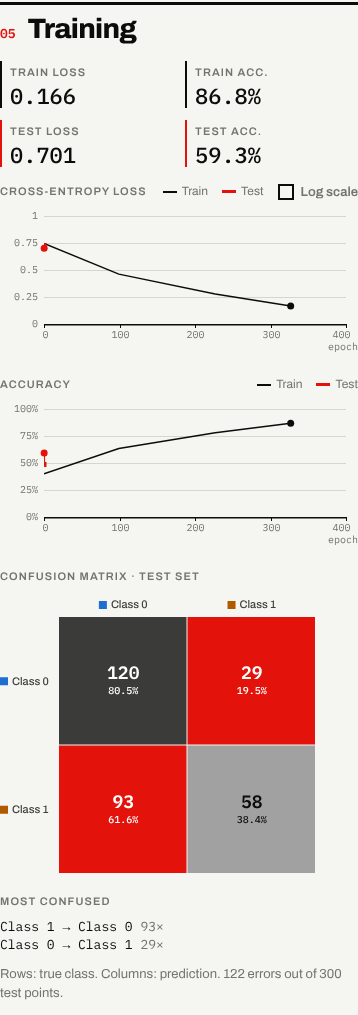
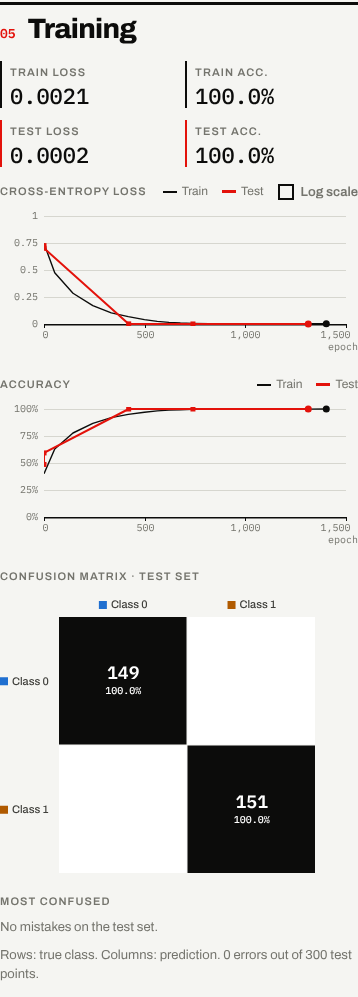
Make weights, training and backprop work for every dataset, add a speed control
04 Weights: a colour network's first-layer kernels show as colour patches
next to their R, G and B kernels; dense layers fed by colour images show
32×32×3 templates; output rows carry class names; point networks label
their inputs x₁, x₁², sin x₁ (upright on a phone); frozen layers are
marked; every number uses a true minus sign.

05 Training: an N×N confusion matrix with short or rotated class names,
full names in tooltips and large cells for 2–4 classes; an epoch axis that
reads well over thousands of epochs; dataset-aware loading text.

06 Backpropagation: colour photos and feature tables as input, class
names in softmax and loss, gradients through conv layers on 3 channels,
frozen layers left alone by the update (and tagged in the step list), and
an explanation wherever a gradient stops at a layer whose units were all
off.

Training bar: Slow / Normal / Max speed, a menu on a phone.

e2e/core.spec.ts covers all of it on CIFAR-10, Fashion-MNIST, MNIST and
circle, with screenshots 17-core-*.png.

Claude-Session: https://claude.ai/code/session_01XbEHJLkrJr1cYYoamFRkmb

diff --git a/src/ui/charts.ts b/src/ui/charts.ts
@@ -1,5 +1,5 @@
 import { loading } from '../actions';
-import { fixed, niceTicks, share, sig } from '../analysis/stats';
+import { fixed, niceTicks, share } from '../analysis/stats';
 import { noun, type DatasetInfo } from '../data/datasets';
 import { store } from '../store';
 import { $, clear, h, int, pct } from './dom';
@@ -191,8 +191,11 @@ function lineChart(canvas: HTMLCanvasElement, w: number, hgt: number, series: Se
   return drawn;
 }
 
-/** A loss for the headline figures: three decimals, or two significant digits once it is tiny (a point dataset learned perfectly). */
-export const lossText = (v: number): string => (v >= 0.0095 || v === 0 ? fixed(v, 3) : sig(v, 2));
+/**
+ * A loss for the headline figures and tooltips: three decimals, four once it is tiny (a point
+ * dataset learned perfectly), and "<0.0001" below that, so neighbouring figures share one format.
+ */
+export const lossText = (v: number): string => (v >= 0.0095 || v <= 0 ? fixed(v, 3) : v >= 0.00005 ? fixed(v, 4) : '<0.0001');
 
 /** EMA smoothing for the noisy per-batch training curve. */
 function smooth(pts: Pt[], a = 0.6): Pt[] {
